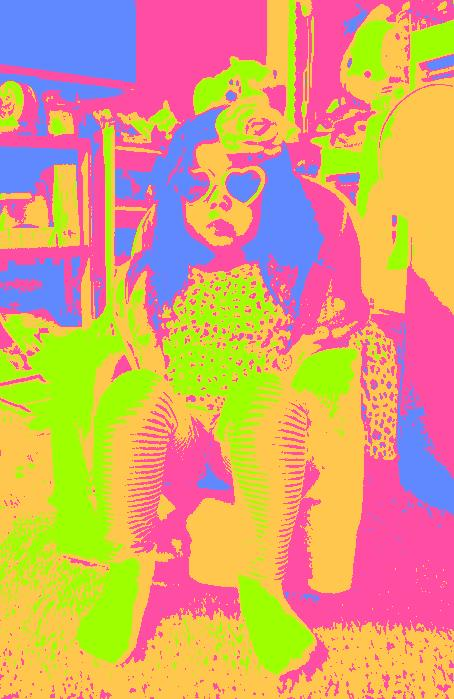
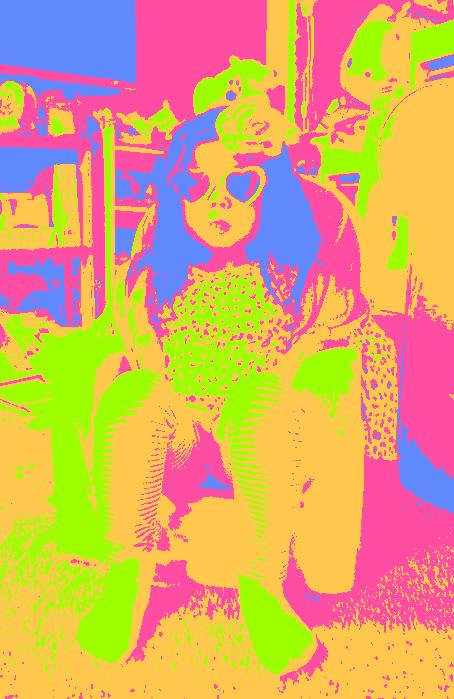
updated shepard fairey try 3

diff --git a/ColorLabs17/SheparFaireyLab.java b/ColorLabs17/SheparFaireyLab.java
@@ -37,11 +37,11 @@ public class SheparFaireyLab
             spot.setBlue(avg);
             spot.setGreen(avg);
             int r = spot.getRed();//doesn't matter which one you get
-            if (r >= 0 && r <= 63){
+            if (r <= 63){
                 spot.setColor(darkblue);
-            } else if (r >= 64 && r <= 127){
+            } else if (r <= 128){
                 spot.setColor(red);
-            } else if (r >= 128 && r <= 192){
+            } else if (r <= 192){
                 spot.setColor(lightblue);
             } else {
                 spot.setColor(offwhite);
@@ -81,12 +81,34 @@ public class SheparFaireyLab
          /**
           * custom color palette
           */
+         //color palettte #1
          Color pink = new Color(255,77,164);
          Color royalblue = new Color(97,137,255);
          Color orange = new Color(255,199,77);
-         Color lightgreen = new Color(77,255,169);
-         Color green = new Color(158,255,0);
+         Color darkgreen = new Color(0,255,127);
+         Color lightgreen = new Color(158,255,0);
          
+         //color palette #2
+         Color r1 = new Color(255,99,71);
+         Color r2 = new Color(178,34,34);
+         Color r3 = new Color(255,160,122);
+         Color r4 = new Color(255,215,0);
+         Color r5 = new Color(255,192,203);
+         
+         //color palette #3
+         Color b1 = new Color(0,128,128);
+         Color b2 = new Color(32,178,170);
+         Color b3 = new Color(64,224,208);//(102,205,170);
+         Color b4 = new Color(175,238,238);
+         Color b5 = new Color(224,255,255);
+         
+         //color palette #4
+         Color s1 = new Color(25,25,112);//midnight
+         Color s2 = new Color(65,105,225);//royal blue
+         Color s3 = new Color(100,149,237);//cornflower blue
+         Color s4 = new Color(255,160,122);//salmon
+         Color s5 = new Color(250,128,114); //light salmon
+         Color s6 = new Color(255,228,181); //moccasin
          Pixel[] pixels2;
          pixels2= me2.getPixels();
          for (Pixel spot : pixels2) {
@@ -95,30 +117,62 @@ public class SheparFaireyLab
             spot.setBlue(avg);
             spot.setGreen(avg);
             int r = spot.getRed();
-            /* //Try 1---------------------------------------------------
-            if (r >= 0 && r <= 63){
+             //Try 1---------------------------------------------------
+            /*if (r <= 63){
                 spot.setColor(royalblue);
-            } else if (r >= 64 && r <= 127){
+            } else if (r <= 128){
                 spot.setColor(pink);
-            } else if (r >= 128 && r <= 192){
+            } else if (r <= 192){
                 spot.setColor(orange);
             } else {
                 spot.setColor(green);
-            } */
-            
-            // Try 2 ----------------------------------------------------
-            if (r >= 0 && r <= 70){
+            } 
+            */
+            // Try 2: added fifth color  ----------------------------------------------------
+            /*if (r <= 63){
                 spot.setColor(royalblue);
-            } else if (r >= 70 && r <= 140){
+            } else if (r <= 128){
                 spot.setColor(pink);
-            } else if (r >= 140 && r <= 192){
+            } else if (r <= 192){
                 spot.setColor(orange);
+            } else if (r<= 220){
+                spot.setColor(lightgreen);
             } else {
-                spot.setColor(green);
+                spot.setColor(darkgreen);
+            }*/
+            //Try 3: different shades of same color --------------------------------------------------
+            /*if (r <= 63){
+                spot.setColor(b1);
+            } else if (r <= 128){
+                spot.setColor(b2);
+            } else if (r <= 192){
+                spot.setColor(b3);
+            } else if (r<= 220){
+                spot.setColor(b4);
+            } else if (r<=240){
+                spot.setColor(s5);*/
+            //Try 4: 
+            if (r <= 63){
+                //spot.setColor(firebrick);
+                spot.setColor(s1);
+            } else if (r <= 130){
+                //spot.setColor(tomato);
+                spot.setColor(s2);
+            } else if (r <= 200){
+                //spot.setColor(lightsalmon);
+                spot.setColor(s3);
+            } else if (r<= 210){
+                //spot.setColor(gold);
+                spot.setColor(s4);
+            } else if (r<=220){
+                //spot.setColor(lightpink);
+                spot.setColor(s5);
+            } else {
+                spot.setColor(s6);
             }
-         }
+        }
          me2.explore();
-         me2.write("images/SFTry1.jpg");
+         me2.write("images/SFTry3.jpg");
          //this writes a copy of the pic!!!! RENAME PIC!!!!
          //me1.write("images/SFTry1.jpg");
     }//main       
